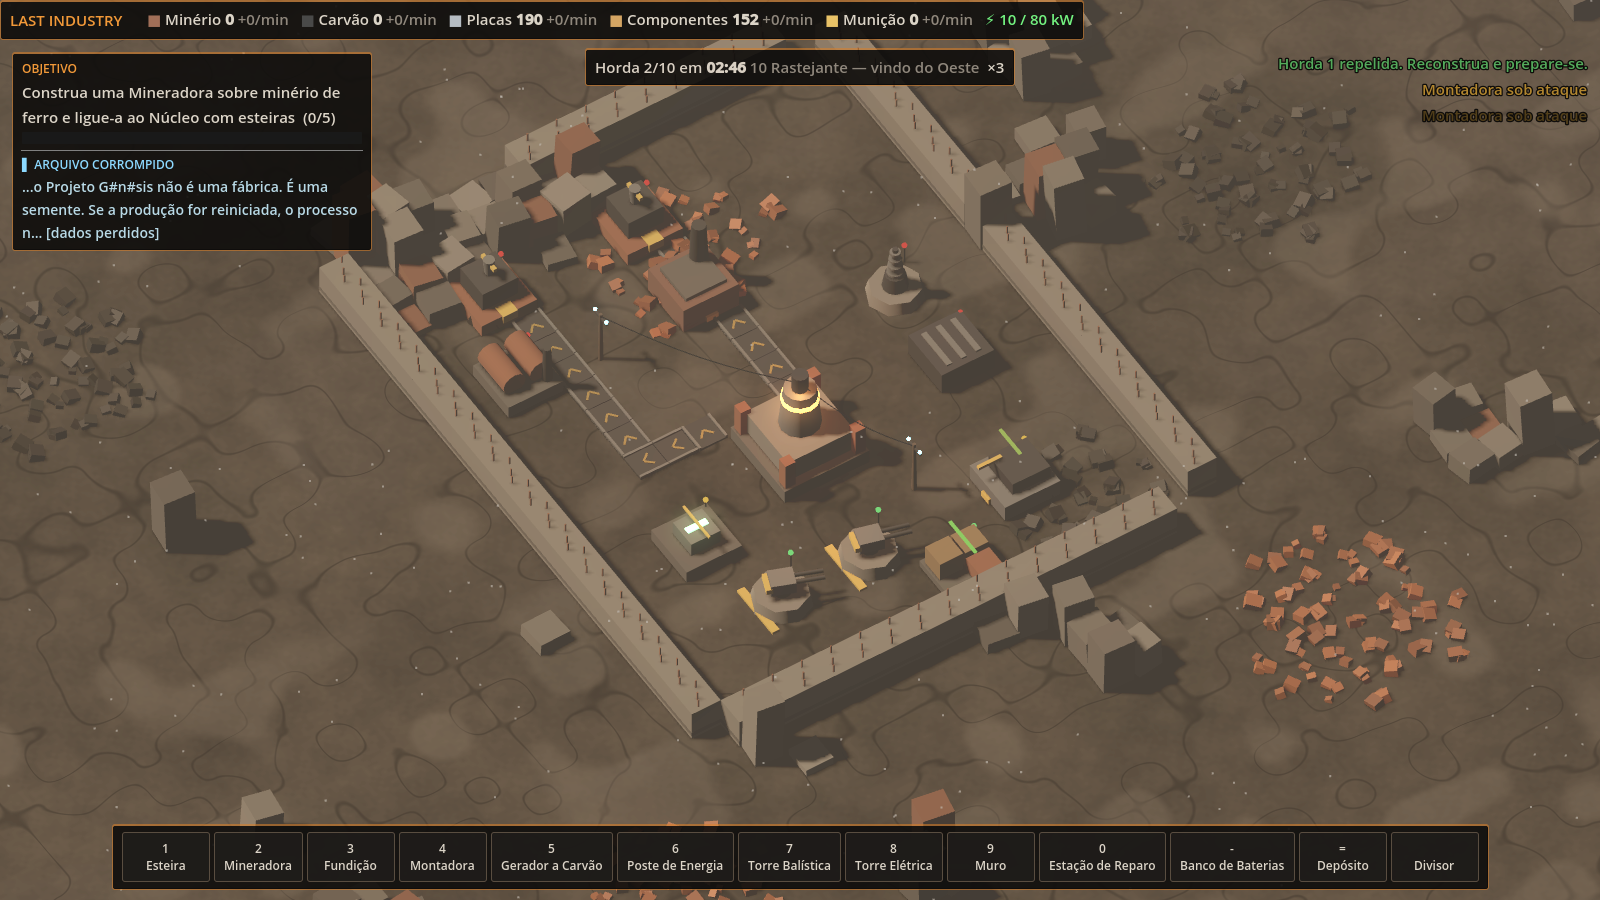
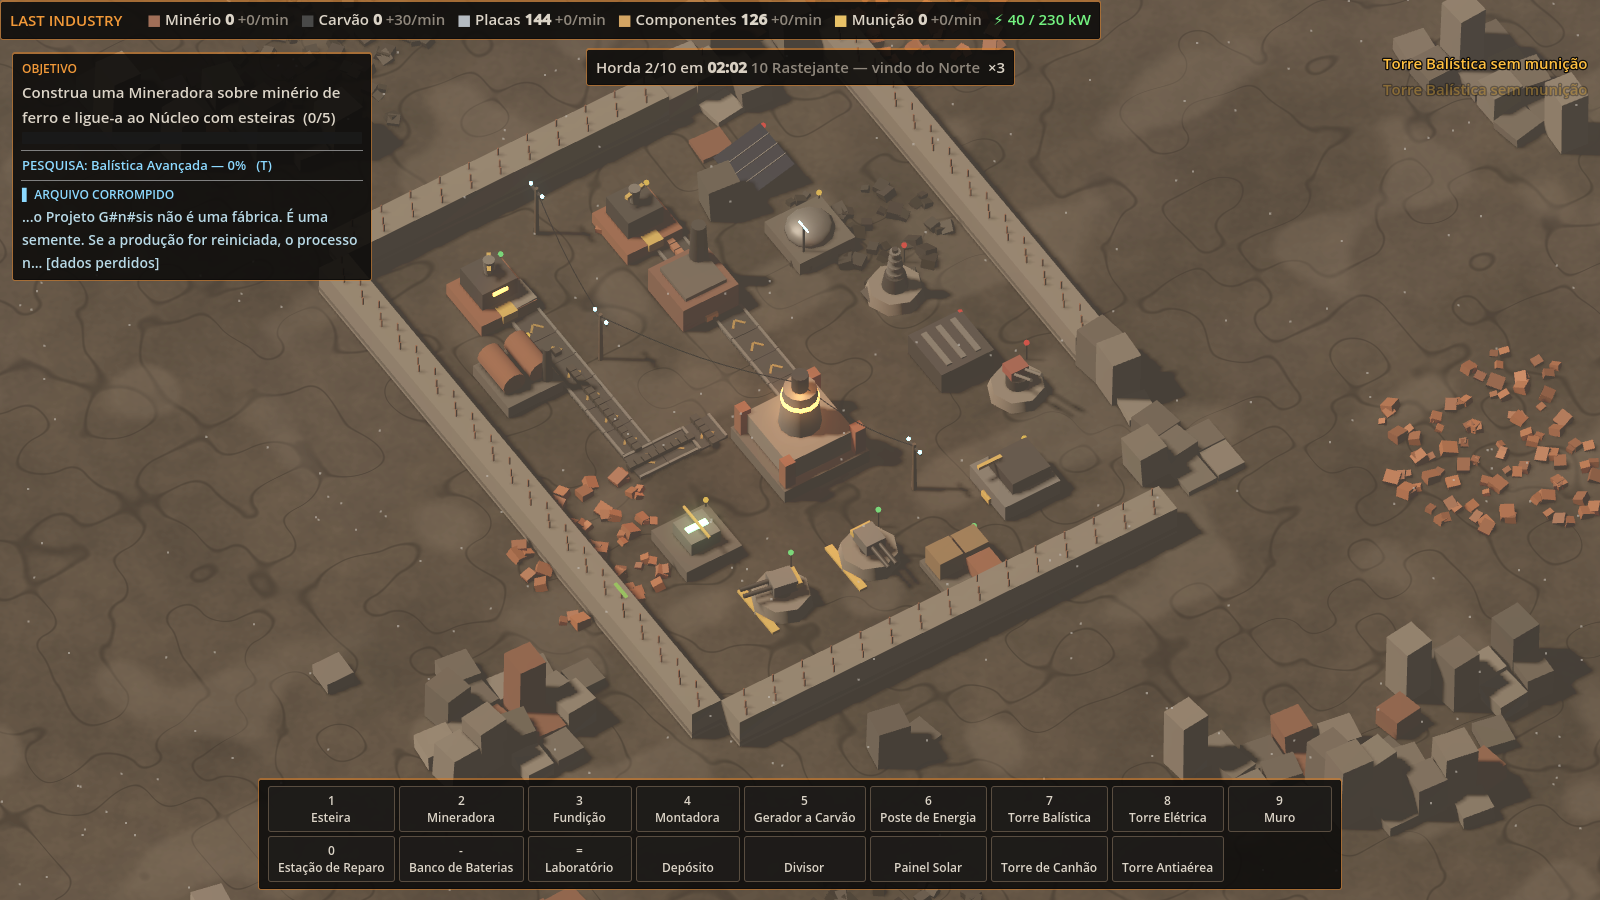
Fase 6: interface de pesquisa, modelos e efeitos das novas estruturas e inimigos
- Painel da árvore de pesquisa (T), pesquisa atual no painel lateral, bloqueios na barra
- Modelos de Laboratório, Painel Solar, Canhão e Antiaérea; Planador e Sabotador
- Explosões de canhão, traçadores antiaéreos, inimigos voadores em altitude
- Barra de construção em duas linhas; alertas esmaecem sem borrar
- Documentação atualizada

Claude-Session: https://claude.ai/code/session_019JBhtoQZZMny99a3zZXBkZ

diff --git a/docs/ROADMAP.md b/docs/ROADMAP.md
@@ -10,7 +10,7 @@ verificáveis e testes automatizados.
 | 3 | Energia e fabricação de munição | ✅ Concluída |
 | 4 | Torres, muros, inimigos e combate | ✅ Concluída |
 | 5 | Integração produção ↔ defesa | ✅ Concluída |
-| 6 | Pesquisa, objetivos e progressão | 🟡 Objetivos, narrativa e modo sobrevivência prontos. Falta a árvore de pesquisa |
+| 6 | Pesquisa, objetivos e progressão | ✅ Concluída |
 | 7 | Otimização, interface e experiência | 🟡 Diagnóstico, depuração e MultiMesh prontos. Faltam seleção em área, blueprints, opções |
 | 8 | Builds de teste e distribuição Steam | 🟡 Exports e CI prontos. Falta integração Steamworks (ver STEAM.md) |
 
@@ -40,12 +40,20 @@ verificáveis e testes automatizados.
 - Hordas, vitória/derrota, salvamento determinístico.
 - Testes: `test_integration.gd`, `test_waves.gd`, `test_save.gd`, `test_belt_destroyed_cuts_supply`.
 
-### Fase 6 — Próximos passos
-1. Laboratório + pacotes de pesquisa (nova receita) + `data/research.json`.
-2. Árvore inicial: mineradora II, esteira rápida, torre de canhão (dano em área), munição perfurante,
-   painel solar, sensor de horda (aviso antecipado), drone de reparo.
-3. Inimigos 4–6: sabotador (alvo = geradores/esteiras), voador (ignora muros, exige antiaérea), cuspidor (ácido em área).
-4. Névoa de guerra e terminais de lore nas ruínas.
+### Fase 6 — Pesquisa e progressão
+- Laboratório consome Pacotes de Pesquisa (placa + componente) e Militares (munição + componente).
+  Vários laboratórios dividem o trabalho sem desperdiçar pacotes.
+- 10 tecnologias em `data/research.json` com pré-requisitos, modificadores e desbloqueios. Estruturas e
+  receitas bloqueadas ficam visíveis na barra com o nome da pesquisa necessária.
+- Conteúdo novo: Torre de Canhão, Torre Antiaérea, Painel Solar, Sabotador, Planador.
+- Objetivos de pesquisa e antiaérea; transmissões sobre Genesis por pesquisa; patrulhas com
+  sabotadores após 2 pesquisas.
+- Testes: `test_research.gd` (10 testes: bloqueios, laboratório, dois laboratórios, fortificação,
+  esteiras, canhão em área, voador × antiaérea, sabotador, solar, salvamento da pesquisa).
+
+### Pendências para fases futuras
+Cuspidor (ácido em área), drones de reparo/abastecimento, sensor de horda, névoa de guerra,
+terminais de lore nas ruínas e a estrutura final Genesis com os três finais.
 
 ### Fase 7 — Próximos passos
 Seleção em retângulo e cópia/colagem de áreas (blueprints), filtros no divisor, menu de opções

diff --git a/README.md b/README.md
@@ -11,10 +11,11 @@ precisa ser fabricada, cada torre consome energia, cada reparo custa materiais.
 
 ![Menu](docs/img/menu.png)
 ![Base em funcionamento](docs/img/base.png)
+![Árvore de pesquisa](docs/img/pesquisa.png)
 
 **Plataformas:** Windows e Linux (x86_64) · **Engine:** Godot 4.3 (GDScript) · **Modo:** solo, offline · **Destino:** Steam
 
-## Estado atual: MVP jogável (Fases 1 a 5, partes da 6 e 7)
+## Estado atual: MVP jogável + Fase 6 (pesquisa e progressão)
 
 | Item do MVP | Implementado |
 |---|---|
@@ -34,6 +35,11 @@ precisa ser fabricada, cada torre consome energia, cada reparo custa materiais.
 | Interface de produção e alertas | HUD, inspetor, estatísticas por minuto, diagnóstico de gargalos, alertas, luzes de estado |
 | Salvamento local | F5 / F9, determinístico |
 | Ciclo completo | Menu → partida → hordas → vitória/derrota → sobrevivência |
+
+**Fase 6:** Laboratório e árvore de 10 tecnologias (T) alimentada por Pacotes de Pesquisa e Militares;
+Torre de Canhão (dano em área), Torre Antiaérea, Painel Solar (fraco à noite); novos inimigos
+Sabotador (caça infraestrutura) e Planador (voa sobre muros); modificadores de mineração, máquinas,
+esteiras, dano e muros; hordas e patrulhas que reagem ao avanço da pesquisa.
 
 Também incluídos: objetivos guiados com recompensas, narrativa por transmissões e arquivos
 corrompidos, sobreposição de depuração (F3: rotas, redes elétricas, alvos), áudio procedural.
@@ -59,7 +65,7 @@ rode pelo editor:
 | Conta-gotas / copiar e colar configuração | Q / Ctrl+C, Ctrl+V |
 | Reconstruir ruínas | G |
 | Pausar / velocidade / chamar horda | Espaço / + − / N |
-| Estatísticas / ajuda / depuração | Tab / H / F3 |
+| Estatísticas / pesquisa / ajuda / depuração | Tab / T / H / F3 |
 | Salvar / carregar / menu | F5 / F9 / Esc |
 
 ### Primeiros passos
@@ -70,6 +76,8 @@ rode pelo editor:
 3. Alimente uma **Montadora** com placas e carvão para produzir **munição**.
 4. Passe a linha de munição **ao lado** das Torres Balísticas: elas puxam os pentes da esteira.
 5. Feche brechas com muros e mantenha uma Estação de Reparo abastecida. A primeira horda chega em 6 minutos.
+6. Construa um **Laboratório** e alimente-o com Pacotes de Pesquisa. Pesquise **Defesa Antiaérea**
+   antes da 6ª horda, quando chegam os Planadores.
 
 ## Desenvolvimento
 

diff --git a/docs/GDD.md b/docs/GDD.md
@@ -67,8 +67,10 @@ Banco de Baterias, Torre Balística, Torre Elétrica, Muro, Estação de Reparo.
 | Aríete | Destruidor de muros | Blindado, lento, atravessa muros, dano em área |
 | Elite/Chefe | Variante | Multiplicadores de vida, tamanho e dano definidos na horda |
 
-Planejados (pós-MVP): sabotadores de infraestrutura (priorizam geradores/esteiras), voadores (exigem
-antiaérea), criaturas de dano contínuo, e mudanças de comportamento ligadas à pesquisa (narrativa Genesis).
+| Sabotador | Infraestrutura | Caça geradores, painéis, baterias, postes, esteiras e laboratórios num raio de 4,5 |
+| Planador | Voador | Ignora muros e terreno, voa até a infraestrutura. Só Antiaérea e Torre Elétrica o atingem |
+
+Planejados: criaturas de dano contínuo (ácido) e mais mudanças de comportamento ligadas à pesquisa.
 
 ## Narrativa: o Projeto Genesis
 
@@ -85,11 +87,18 @@ anunciadas, iniciadas e repelidas (`data/lore.json`). Arco planejado:
 Conforme a pesquisa avança, as hordas passam a priorizar setores específicos e novas criaturas
 aparecem perto de estruturas avançadas. A ameaça reage ao que você fabrica.
 
-## Progressão futura (Fase 6+)
+## Pesquisa (implementada)
 
-- **Pesquisa:** laboratório consome pacotes de pesquisa fabricados. A árvore desbloqueia máquinas
-  mais eficientes, novas receitas, torres (canhão, longo alcance, ácido, antiaérea), munições
-  especiais, robôs de construção/reparo, energia solar/turbinas e sensores de emergência.
+O Laboratório consome Pacotes de Pesquisa (placa + componente) e Pacotes Militares (munição +
+componente), fabricados na Montadora. Pesquisar custa recursos que poderiam virar munição: é uma
+aposta no futuro contra a próxima horda. Árvore atual (`data/research.json`): Automação Básica,
+Perfuração Profunda, Esteiras Reforçadas, Energia Solar, Logística Militar, Defesa Antiaérea,
+Artilharia, Balística Avançada, Fortificação, Fragmento Genesis.
+
+## Progressão futura
+
+- **Pesquisa adicional:** torre de longo alcance, ácido, munições especiais, robôs de
+  construção/reparo, turbinas e sensores de emergência.
 - **Exploração:** névoa de guerra, regiões com jazidas raras, terminais com arquivos de Genesis,
   ninhos que podem ser destruídos.
 - **Estrutura final:** construção que encerra a campanha (ativação de Genesis).
